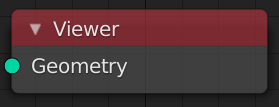
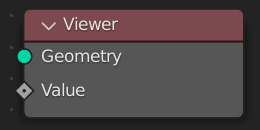
Manual: Geometry Nodes: Additional node additions, updates
git-svn-id: https://svn.blender.org/svnroot/bf-manual/trunk/blender_docs@8530 c4de1f47-6596-e411-a384-0024e86c2797

diff --git a/manual/modeling/geometry_nodes/text/string_to_curves.rst b/manual/modeling/geometry_nodes/text/string_to_curves.rst
@@ -1,5 +1,5 @@
 .. index:: Geometry Nodes; String to Curves
-.. _bpy.types.GeometryNodeString to Curves:
+.. _bpy.types.GeometryNodeStringtoCurves:
 
 *********************
 String to Curves Node
@@ -10,47 +10,57 @@ String to Curves Node
 
    String to Curves Node
 
-The *String to Curves* ...
+The *String to Curves* converts a string to curve geometry.
 
 
 Inputs
 ======
 
 String
-   xxxxxxxxxx
+   Standard string input.
 
 Size
-   xxxxxxxxxx
+   Size of the curve.
 
 Character Spacing
-   xxxxxxxxxx
+   A factor by which space between each character (kerning) is scaled in width.
 
 Word Spacing
-   xxxxxxxxx
+   A factor by which white-space between words is scaled in width.
 
 Line Spacing
-   xxxxxxxxx
+   A factor by which the vertical space between lines is scaled.
 
 Max Width
-   xxxxxxxxxx
+   Maximum width of the text
 
 Properties
 ==========
 
 Font
-   xxxxxxxxxx
+   Font glyph used to generate the curve.
 
 Overflow
-   xxxxxxxxxx
+   :Overflow: Allows the text to use more space than the specified height.
+   :Scale To Fit: Scales the text size to fit the width and height.
+   :Truncate: Only outputs curves that fit within the width and height.
 
 Alignment
-   xxxxxxxxxxxx
+   :Left: Aligns the text to the left.
+   :Center: Aligns the text to the center.
+   :Right: Aligns the text to the right.
+   :Justify: Aligns the text to the left and right.
+   :Flush: Alignts the text to the left and right with equal character spacing.
 
 Align Y
-   xxxxxxxxxxx
+   :Top Baseline: Aligns the text to the top baseline.
+   :Top: Aligns the text to the top.
+   :Middle: Aligns the text to the middle.
+   :Bottom Baseline: Aligns the text to the bottom baseline.
+   :Bottom: Aligns the text to the bottom.
 
 Outputs
 =======
 
 Curves
-   xxxxxxxxxxxxxxxxxx
+   Generated curve.

diff --git a/manual/modeling/geometry_nodes/geometry/geometry_proximity.rst b/manual/modeling/geometry_nodes/geometry/geometry_proximity.rst
@@ -1,6 +1,42 @@
+.. index:: Geometry Nodes; Geometry Proximity
+.. _bpy.types.GeometryNodeGeometryProximity:
 
-******************
-Geometry Proximity
-******************
+***********************
+Geometry Proximity Node
+***********************
 
-Todo 3.0
+
+.. figure:: /images/modeling_geometry-nodes_geometry_geometry-proximity_node.png
+   :align: right
+
+   The Geometry Proximity node.
+
+The *Geometry Proximity* node finds the closest location on the target.
+
+
+Inputs
+======
+
+Target
+   Standard geometry input.
+
+Source Position
+   The given position to find the closest location on the target.
+
+Properties
+==========
+
+Target Geometry
+   :Points: Calculate the proximity to the target's points (faster than the other modes).
+   :Edges: Calculate the proximity to the target's edges.
+   :Faces: Calculate the proximity to the target's faces.
+
+
+Outputs
+=======
+
+Position
+   Closest location in the target.
+
+Distance
+   Distance (as floating-point value) from the source position to the closest location in the target.

diff --git a/manual/modeling/geometry_nodes/text/replace_string.rst b/manual/modeling/geometry_nodes/text/replace_string.rst
@@ -1,0 +1,39 @@
+.. index:: Geometry Nodes; Replace String
+.. _bpy.types.GeometryNodeReplaceString:
+
+*******************
+Replace String Node
+*******************
+
+.. figure:: /images/modeling_geometry-nodes_text_replace-string_node.png
+   :align: center
+
+   The Replace String node.
+
+The *Replace String* node replaces a string segment with another.
+
+
+Inputs
+======
+
+String
+   Standard string input.
+
+Find
+   The substring to find in *String* to be replaced.
+
+Replace
+   A string segment which replaces occurrences of the *Find* substring. 
+
+
+Properties
+==========
+
+This node has no properties.
+
+
+Outputs
+=======
+
+String
+   String value which may contain the replaced substring.

diff --git a/manual/modeling/geometry_nodes/output/viewer.rst b/manual/modeling/geometry_nodes/output/viewer.rst
@@ -10,7 +10,7 @@ Viewer Node
 
    The Viewer node.
 
-Using a *Viewer* node a geometry can be displayed in the Spreadsheet.
+Using a *Viewer* node a geometry, and optionally fields evaluated on this geometry, can be displayed in the Spreadsheet.
 A node can be plugged into a viewer node by pressing :kbd:`Shift-Ctrl-LMB` on it, just like in the Compositor.
 
 
@@ -20,6 +20,8 @@ Inputs
 Geometry
    Geometry that will be displayed in the Spreadsheet.
 
+Value
+   Field to be evaluated on the geometry.
 
 Properties
 ==========

diff --git a/manual/modeling/geometry_nodes/volume/volume_to_mesh.rst b/manual/modeling/geometry_nodes/volume/volume_to_mesh.rst
@@ -21,9 +21,6 @@ Inputs
 Geometry
    Standard geometry inputs.
 
-Density
-   Name of the :ref:`volume grid <bpy.types.VolumeGrids>` attribute the mesh is created from.
-
 Voxel Amount
    Specifies the approximate resolution of the final mesh.
    The voxel size is adapted to the size of the entire volume.

diff --git a/manual/modeling/geometry_nodes/text/index.rst b/manual/modeling/geometry_nodes/text/index.rst
@@ -9,11 +9,9 @@ Nodes to manipulate strings.
    :maxdepth: 1
 
    join_strings.rst
+   replace_string.rst
    slice_string.rst
    special_characters.rst
    string_length.rst
    string_to_curves.rst
    value_to_string.rst
-
-.. missing documentation:
-   replace_string.rst

diff --git a/manual/modeling/geometry_nodes/text/slice_string.rst b/manual/modeling/geometry_nodes/text/slice_string.rst
@@ -1,5 +1,5 @@
 .. index:: Geometry Nodes; Slice String
-.. _bpy.types.GeometryNodeStringSubstring:
+.. _bpy.types.GeometryNodeSliceString:
 
 *****************
 Slice String Node
